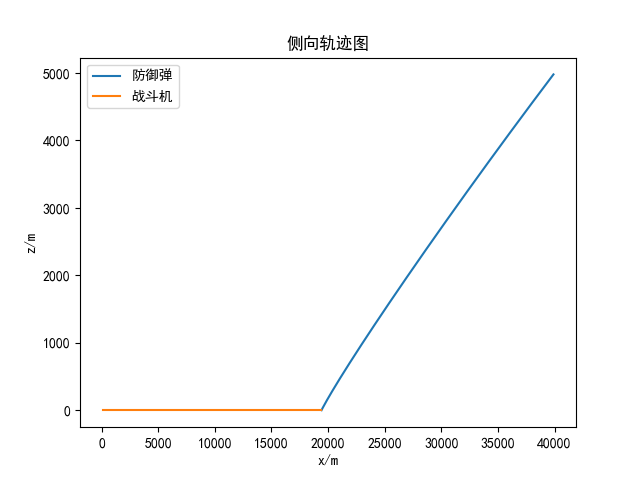
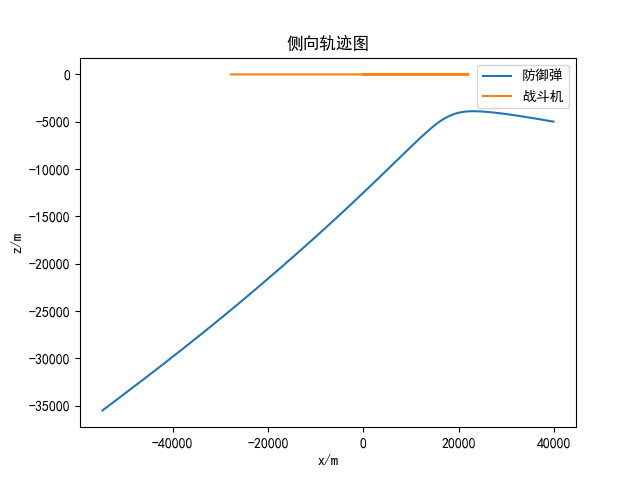
修改了模拟方式，但是比例导引法不能正确工作

diff --git a/MyEnvs.py b/MyEnvs.py
@@ -29,7 +29,24 @@ class aircraft:
         self.velocity = velocity # 速度 (v)
         self.a_max=a_max # 最大过载 (a_max)
         self.R = R # r*
-    
+        self.a_y = 0
+        self.a_z = 0
+
+    def update(self, dt, a_y ,a_z):
+
+        self.a_y = a_y
+        self.a_z = a_z
+
+        dposition = self.velocity * np.array([cos(self.theta) * cos(self.psi) , 
+                                              sin(self.theta) , 
+                                              -cos(self.theta) * sin(self.psi)])
+        dtheta = a_y / self.velocity
+        dpsi = - a_z / (self.velocity * cos(self.theta))
+
+        self.position += dposition * dt
+        self.theta += dtheta * dt
+        self.psi +=dpsi * dt
+        
 
 
 
@@ -39,38 +56,44 @@ class relative:
 
         self.r = np.linalg.norm(target.position - chaser.position)
         self.r_0 = self.r
-        self.q_y = asin((target.position[1] - chaser.position[1]) / self.r)
+        self.r = np.array([self.r , self.r]) #[上一dt和这一dt]
+
+
+
+        self.q_y = asin((target.position[1] - chaser.position[1]) / self.r[1])
+        self.q_y = np.array([self.q_y , self.q_y])
+
+
         self.q_z = acos((target.position[0] - chaser.position[0]) / (np.linalg.norm(np.array([target.position[0] - chaser.position[0] , target.position[2] - chaser.position[2]])))) 
+        self.q_z = np.array([self.q_z , self.q_z])
+
+
         self.dq_y = 0
         self.dq_z = 0
-
-
         self.dr = 0
         self.dq_y = 0
         self.dq_z = 0
 
+
         self.chaser = chaser
         self.target = target
-        self.theta = self.chaser.theta
-        self.psi = self.chaser.psi
-        self.dtheta = 0
-        self.dpsi = 0
+
 
     def check_detection(self):
         # 检测战机是否探测到导弹
-        if self.r < self.chaser.R:
+        if self.r[1] < self.chaser.R:
             return True
         else:
             return False
 
 
 
-    def state(self,type = "fighter"):
+    def state(self,type):
         # 输出相对状态量
 
-        r = self.r
-        q_y = self.q_y
-        q_z = self.q_z
+        r = self.r[1]
+        q_y = self.q_y[1]
+        q_z = self.q_z[1]
 
        # 归一化处理
         if type == "defender":
@@ -80,21 +103,21 @@ class relative:
                           sin(self.target.theta) * cos(self.target.psi) * cos(q_y) * sin(q_z))
             eta_y = np.clip(eta_y, -1, 1)
             eta_y = asin(eta_y)
-            eta_z = atan((cos(q_y) * sin(q_z) * cos(self.psi) -cos(q_y) * cos(q_z) * sin(self.psi))/
-                          (cos(q_y) * cos(q_z) * cos(self.theta) * cos(self.psi) +
-                           sin(self.theta) * sin(q_y) +
-                           cos(q_y) * sin(q_z) * cos(self.theta) * sin(self.psi)))
+            eta_z = atan((cos(q_y) * sin(q_z) * cos(self.chaser.psi) -cos(q_y) * cos(q_z) * sin(self.chaser.psi))/
+                          (cos(q_y) * cos(q_z) * cos(self.chaser.theta) * cos(self.chaser.psi) +
+                           sin(self.chaser.theta) * sin(q_y) +
+                           cos(q_y) * sin(q_z) * cos(self.chaser.theta) * sin(self.chaser.psi)))
         elif type == "fighter":
             r_bar = (r-self.chaser.R) / (self.r_0 - self.chaser.R) 
 
-            eta_y = (-sin(self.theta) * cos(self.psi) * cos(q_y) * cos(q_z) +
-                          cos(self.theta) * sin(q_y) -
-                          sin(self.theta) * cos(self.psi) * cos(q_y) * sin(q_z))
+            eta_y = (-sin(self.chaser.theta) * cos(self.chaser.psi) * cos(q_y) * cos(q_z) +
+                          cos(self.chaser.theta) * sin(q_y) -
+                          sin(self.chaser.theta) * cos(self.chaser.psi) * cos(q_y) * sin(q_z))
             eta_y = np.clip(eta_y, -1, 1)
-            eta_z = atan((cos(q_y) * sin(q_z) * cos(self.psi) -cos(q_y) * cos(q_z) * sin(self.psi))/
-                          (cos(q_y) * cos(q_z) * cos(self.theta) * cos(self.psi) +
-                           sin(self.theta) * sin(q_y) +
-                           cos(q_y) * sin(q_z) * cos(self.theta) * sin(self.psi)))
+            eta_z = atan((cos(q_y) * sin(q_z) * cos(self.chaser.psi) -cos(q_y) * cos(q_z) * sin(self.chaser.psi))/
+                          (cos(q_y) * cos(q_z) * cos(self.chaser.theta) * cos(self.chaser.psi) +
+                           sin(self.chaser.theta) * sin(q_y) +
+                           cos(q_y) * sin(q_z) * cos(self.chaser.theta) * sin(self.chaser.psi)))
         eta_y = tanh(eta_y)
         eta_z = tanh(eta_z)
         return r_bar , eta_y , eta_z
@@ -106,87 +129,46 @@ class relative:
     def proportional_navigation(self):
         # 比例导引法
 
-        self.dtheta = 3 * self.dq_y * cos(self.q_z - self.psi)
-        self.dpsi = 3 * self.dq_z - 3 * self.dq_y * tan(self.theta) * sin(self.q_z - self.psi)
+        dtheta = 3 * self.dq_y * cos(self.q_z[1] - self.chaser.psi)
+        dpsi = 3 * self.dq_z - 3 * self.dq_y * tan(self.chaser.theta) * sin(self.q_z[1] - self.chaser.psi)
+
+        a_y , a_z = self.calculate_a(dtheta,dpsi)
+
+        return a_y , a_z
 
 
     
-    def calculate_a(self):
+    def calculate_a(self,dtheta,dpsi):
 
-        self.a_y = self.dtheta * self.chaser.velocity
-        self.a_z = -self.dpsi * self.chaser.velocity * cos(self.theta)
+        a_y = dtheta * self.chaser.velocity
+        a_z = -dpsi * self.chaser.velocity * cos(self.chaser.theta)
 
-        a = sqrt(self.a_y**2 + self.a_z**2)
-
+        a = sqrt(a_y**2 + a_z**2)
 
         if a >self.chaser.a_max:
-            self.a_y = self.a_y * self.chaser.a_max / a
-            self.a_z = self.a_z * self.chaser.a_max / a
-            self.dtheta = self.a_y / self.chaser.velocity
-            self.dpsi = -self.a_z / (self.chaser.velocity * cos(self.theta))
+            a_y = a_y * self.chaser.a_max / a
+            a_z = a_z * self.chaser.a_max / a
 
 
+        return a_y , a_z
 
 
+    def update(self):
+        # 模拟过程中更新相对量
 
+        # 更新微分量
+        self.dr = self.r[1]-self.r[0]
+        self.dq_y = self.q_y[1]-self.q_y[0]
+        self.dq_z = self.q_z[1]-self.q_z[0]
 
-            
+        self.r[0] = self.r[1]
+        self.q_y[0] = self.q_y[1]
+        self.q_z[0] = self.q_z[1]
 
-
-
-
-
-
-
-
-
-
-
-    def simulate(self,dt):
-        # 模拟飞行器运动
-
-
-
-
-        self.dr = (self.target.velocity * (cos(self.target.theta) * cos(self.q_y) * cos(self.target.psi - self.q_z) +
-                                            sin(self.target.theta) * sin(self.q_y)) -
-                    self.chaser.velocity * (cos(self.theta) * cos(self.q_y) * cos(self.psi - self.q_z) +
-                                            sin(self.theta) * sin(self.q_y)))
-            
-        self.dq_y = (self.target.velocity * (sin(self.target.theta) * cos(self.q_y) -
-                                            cos(self.target.theta) * sin(self.q_y) * cos(self.target.psi - self.q_z)) -
-                        self.chaser.velocity * (sin(self.theta) * cos(self.q_y) -
-                                            cos(self.theta) * sin(self.q_y) * cos(self.psi - self.q_z)))/self.r
-        
-        self.dq_z = (self.target.velocity * cos(self.target.theta) * sin(self.psi - self.q_z) -
-                        self.chaser.velocity * cos(self.theta) * sin(self.psi - self.q_z))/(self.r * cos(self.q_y))
-        
-
-        self.r += self.dr * dt
-        self.q_y += self.dq_y * dt
-        self.q_z += self.dq_z * dt
-
-        self.calculate_a()
-
-        self.theta += self.dtheta * dt 
-        self.psi += self.dpsi * dt
-
-        # 更新位置
-        
-        self.chaser.position[0] = self.target.position[0] - self.r * cos(self.q_y) * cos(self.q_z)
-        self.chaser.position[1] = self.target.position[1] - self.r * sin(self.q_y)
-        self.chaser.position[2] = self.target.position[2] + self.r * cos(self.q_y) * sin(self.q_z)
-        self.chaser.theta = self.theta
-        self.chaser.psi = self.psi
-
-
-
-
-        
-
-
-
-
+        self.r[1] = np.linalg.norm(self.target.position - self.chaser.position)
+        self.q_y[1] = asin((self.target.position[1] - self.chaser.position[1]) / self.r[0])
+        self.q_z[1] = acos((self.target.position[0] - self.chaser.position[0]) / 
+                                      (np.linalg.norm(np.array([self.target.position[0] - self.chaser.position[0] , self.target.position[2] - self.chaser.position[2]])))) 
 
 
 
@@ -294,12 +276,15 @@ class FighterEnv(gym.Env):
         while not self.FD.check_detection():
             
             
-            self.FT.simulate(self.dt) 
-            self.FD.simulate(self.dt)
+            a_y , a_z = self.FT.proportional_navigation()
+            self.fighter.update(self.dt, a_y , a_z)
 
-            self.FT.proportional_navigation()
-            self.FD.proportional_navigation()
-            
+            a_y , a_z = self.FD.proportional_navigation()
+            self.defender.update(self.dt, a_y , a_z)
+
+            self.FT.update()
+            self.FD.update()
+ 
             # 加入观察数据
             if self.Isprint:
                 self.calculate_eta()
@@ -311,19 +296,19 @@ class FighterEnv(gym.Env):
         self.plotdata["fighter"]["x"].append(self.fighter.position[0])
         self.plotdata["fighter"]["y"].append(self.fighter.position[1])
         self.plotdata["fighter"]["z"].append(self.fighter.position[2])
-        self.plotdata["fighter"]["theta"].append(self.FT.theta)
-        self.plotdata["fighter"]["psi"].append(self.FT.psi)
-        self.plotdata["fighter"]["a_y"].append(self.FT.a_y)
-        self.plotdata["fighter"]["a_z"].append(self.FT.a_z)
+        self.plotdata["fighter"]["theta"].append(self.fighter.theta)
+        self.plotdata["fighter"]["psi"].append(self.fighter.psi)
+        self.plotdata["fighter"]["a_y"].append(self.fighter.a_y)
+        self.plotdata["fighter"]["a_z"].append(self.fighter.a_z)
         self.plotdata["fighter"]["r"].append(self.FT.r)
 
         self.plotdata["defender"]["x"].append(self.defender.position[0])
         self.plotdata["defender"]["y"].append(self.defender.position[1])
         self.plotdata["defender"]["z"].append(self.defender.position[2])
-        self.plotdata["defender"]["theta"].append(self.FD.theta)
-        self.plotdata["defender"]["psi"].append(self.FD.psi)
-        self.plotdata["defender"]["a_y"].append(self.FD.a_y)
-        self.plotdata["defender"]["a_z"].append(self.FD.a_z)
+        self.plotdata["defender"]["theta"].append(self.defender.theta)
+        self.plotdata["defender"]["psi"].append(self.defender.psi)
+        self.plotdata["defender"]["a_y"].append(self.defender.a_y)
+        self.plotdata["defender"]["a_z"].append(self.defender.a_z)
         self.plotdata["defender"]["r"].append(self.FD.r)
 
         self.plotdata["eta"].append(self.eta_ft)
@@ -359,21 +344,21 @@ class FighterEnv(gym.Env):
     
         # 按时间步长模拟飞行器运动
 
-        # 防御弹
-        self.FD.simulate(DT)
-        self.FD.proportional_navigation()
         
 
         # 战斗机
-        self.a_y = (action[1]+1) * cos(action[0]) * 9.81
-        self.a_z = (action[1]+1) * sin(action[0]) * 9.81 # 根据动作计算加速度
+        a_y = (action[1]+1) * cos(action[0]) * 9.81
+        a_z = (action[1]+1) * sin(action[0]) * 9.81 # 根据动作计算加速度
 
-        self.FT.dtheta = self.a_y/self.fighter.velocity
-        self.FT.dpsi = -self.a_z/(self.fighter.velocity * cos(self.fighter.theta))
+        self.fighter.update(self.dt, a_y , a_z)
 
-        self.FT.simulate(DT)  # 更新战斗机状态
+        # 防御弹
+        a_y , a_z = self.FD.proportional_navigation()
+        self.defender.update(self.dt, a_y , a_z)  
 
-
+        # 更新相对量
+        self.FT.update()
+        self.FD.update()
         
 
         r_1 , q_y1 , q_z1 = self.FD.state("defender")
@@ -401,12 +386,10 @@ class FighterEnv(gym.Env):
 
 
     def calculate_eta(self):
-        v_f = self.fighter.velocity * np.array([cos(self.FT.theta) * cos(self.FT.psi),
-                                           -cos(self.FT.theta) * sin(self.FT.psi),
-                                            sin(self.FT.theta)])  # 战机速度矢量
-        l_ft = self.FT.r * np.array([cos(self.FT.q_y) * cos(self.FT.q_z),
-                                    -cos(self.FT.q_y) * sin(self.FT.q_z),
-                                    sin(self.FT.q_y)])
+        v_f = self.fighter.velocity * np.array([cos(self.fighter.theta) * cos(self.fighter.psi),
+                                           -cos(self.fighter.theta) * sin(self.fighter.psi),
+                                            sin(self.fighter.theta)])  # 战机速度矢量
+        l_ft = self.target.position - self.fighter.position
         self.eta_ft = acos((np.dot(v_f, l_ft) / (np.linalg.norm(v_f) * np.linalg.norm(l_ft)))) # 战机速度与目标视线夹角
 
     
@@ -419,14 +402,14 @@ class FighterEnv(gym.Env):
 
 
         
-        if self.FT.r <= R_FT and self.FD.dr > 0 and self.FD.r > R_DAM and self.eta_ft <= ETA_FT:
+        if self.FT.r[1] <= R_FT and self.FD.dr > 0 and self.FD.r[1] > R_DAM and self.eta_ft <= ETA_FT:
             self.success = True
             return K_PLUS
         
-        elif self.FD.r <= R_FD and self.FD.dr > 0 and self.FD.r > R_DAM and self.eta_ft > ETA_FT:
+        elif self.FD.r[1] <= R_FD and self.FD.dr > 0 and self.FD.r[1] > R_DAM and self.eta_ft > ETA_FT:
             return 0
         
-        elif self.FD.r < R_DAM:
+        elif self.FD.r[1] < R_DAM:
             self.fail = True
             return K_MINUS
         
@@ -441,7 +424,7 @@ class FighterEnv(gym.Env):
             else:
                 reward_2 = 0
             
-            reward_3 = -K_R3 * (self.a_y ** 2 + self.a_z ** 2)
+            reward_3 = -K_R3 * (self.fighter.a_y ** 2 + self.fighter.a_z ** 2)
 
 
             return reward_1 + reward_2 + reward_3
@@ -451,20 +434,3 @@ class FighterEnv(gym.Env):
 
             
 
-class FighterEnv_2(FighterEnv):
-
-    def start_simulate(self):
-        while self.FD.r > R_DAM and self.FT.r > 0: # 不进行突防仿真
-            
-            
-            self.FT.simulate(self.dt) 
-            self.FD.simulate(self.dt)
-
-            self.FT.proportional_navigation()
-            self.FD.proportional_navigation()
-
-            if self.Isprint:
-            
-                # 加入观察数据
-                self.calculate_eta()
-                self.update_plotdata()

diff --git a/no-policy.py b/no-policy.py
@@ -1,11 +1,18 @@
-from MyEnvs import FighterEnv_2
-import numpy as np
+from MyEnvs import FighterEnv
 import matplotlib.pyplot as plt
+import math as m
+import numpy as np
 
 plt.rcParams['font.sans-serif'] = ['SimHei']  # 指定默认字体
 plt.rcParams['axes.unicode_minus'] = False  # 解决保存图像时负号'-'显示为方块的问题
 
-myenv = FighterEnv_2(True)
+myenv = FighterEnv(True)
+
+obs , _ = myenv.reset()
+for i in range(1000):
+    a_y , a_z = myenv.FT.proportional_navigation()
+    action = np.array([m.asin(a_z/m.sqrt(a_y **2 + a_z **2)) , m.sqrt(a_y **2 + a_z **2)])
+    obs, rewards, dones, _ , _ = myenv.step(action)
 
 
 
